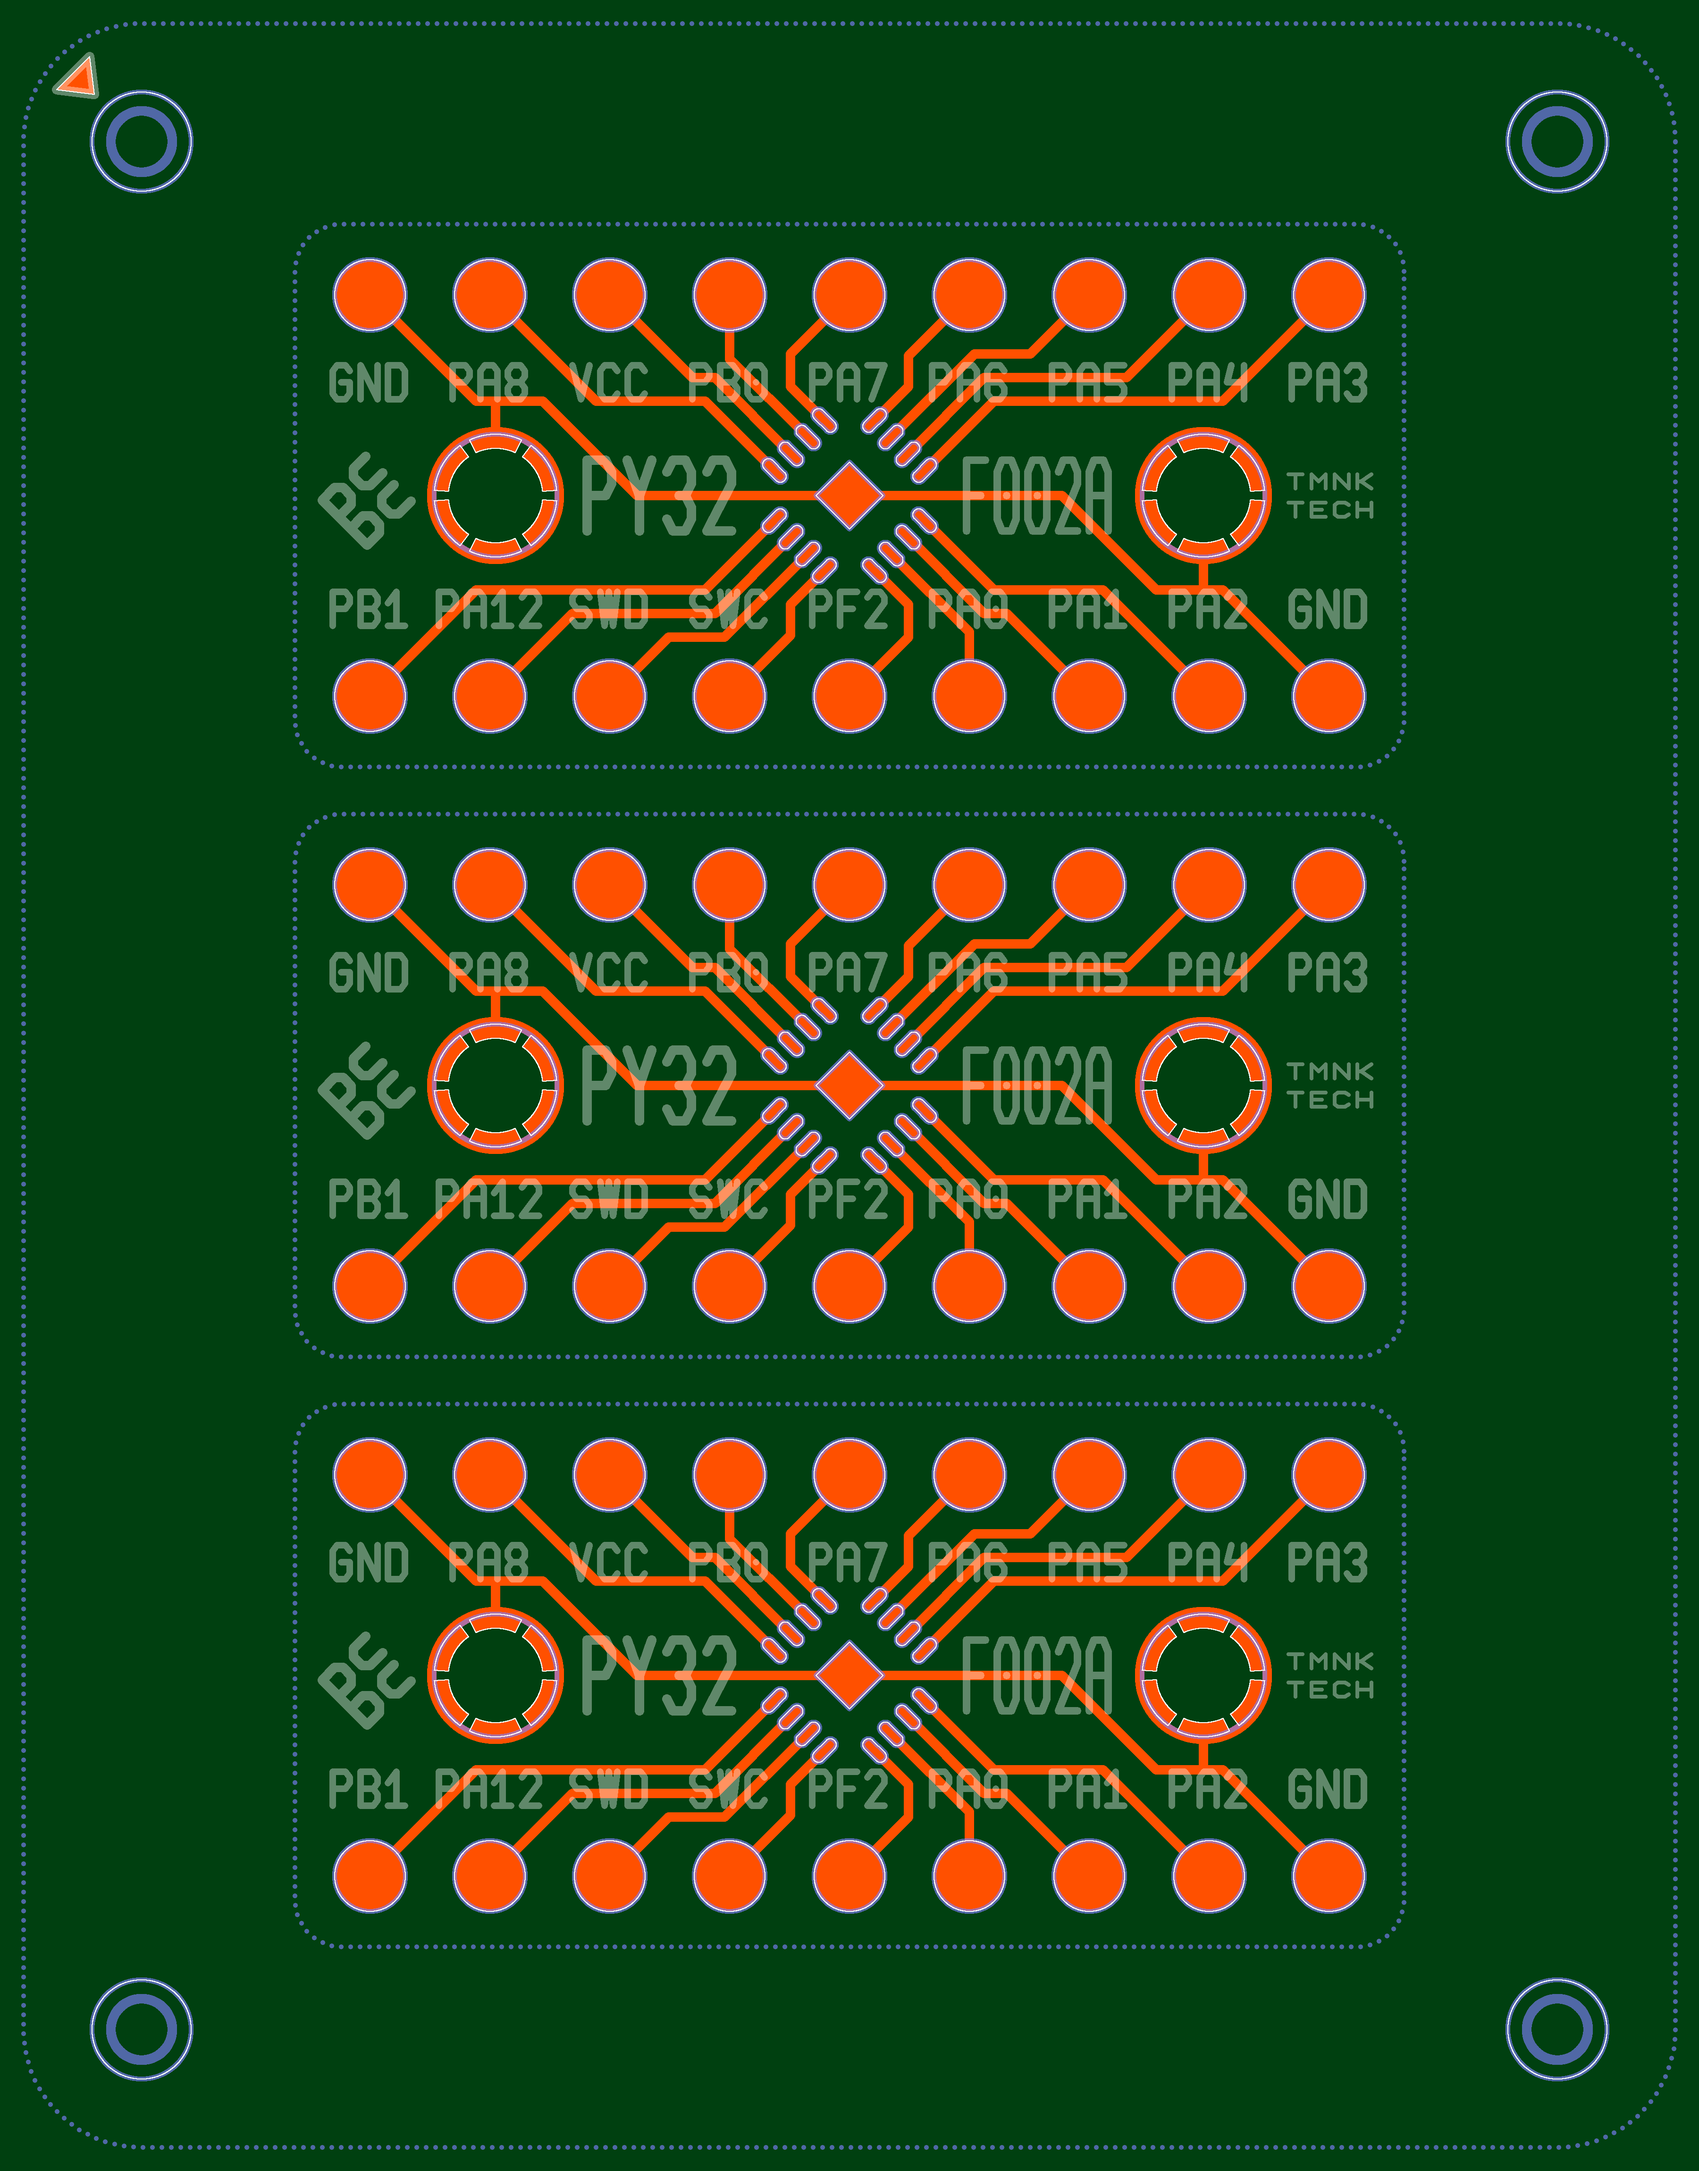
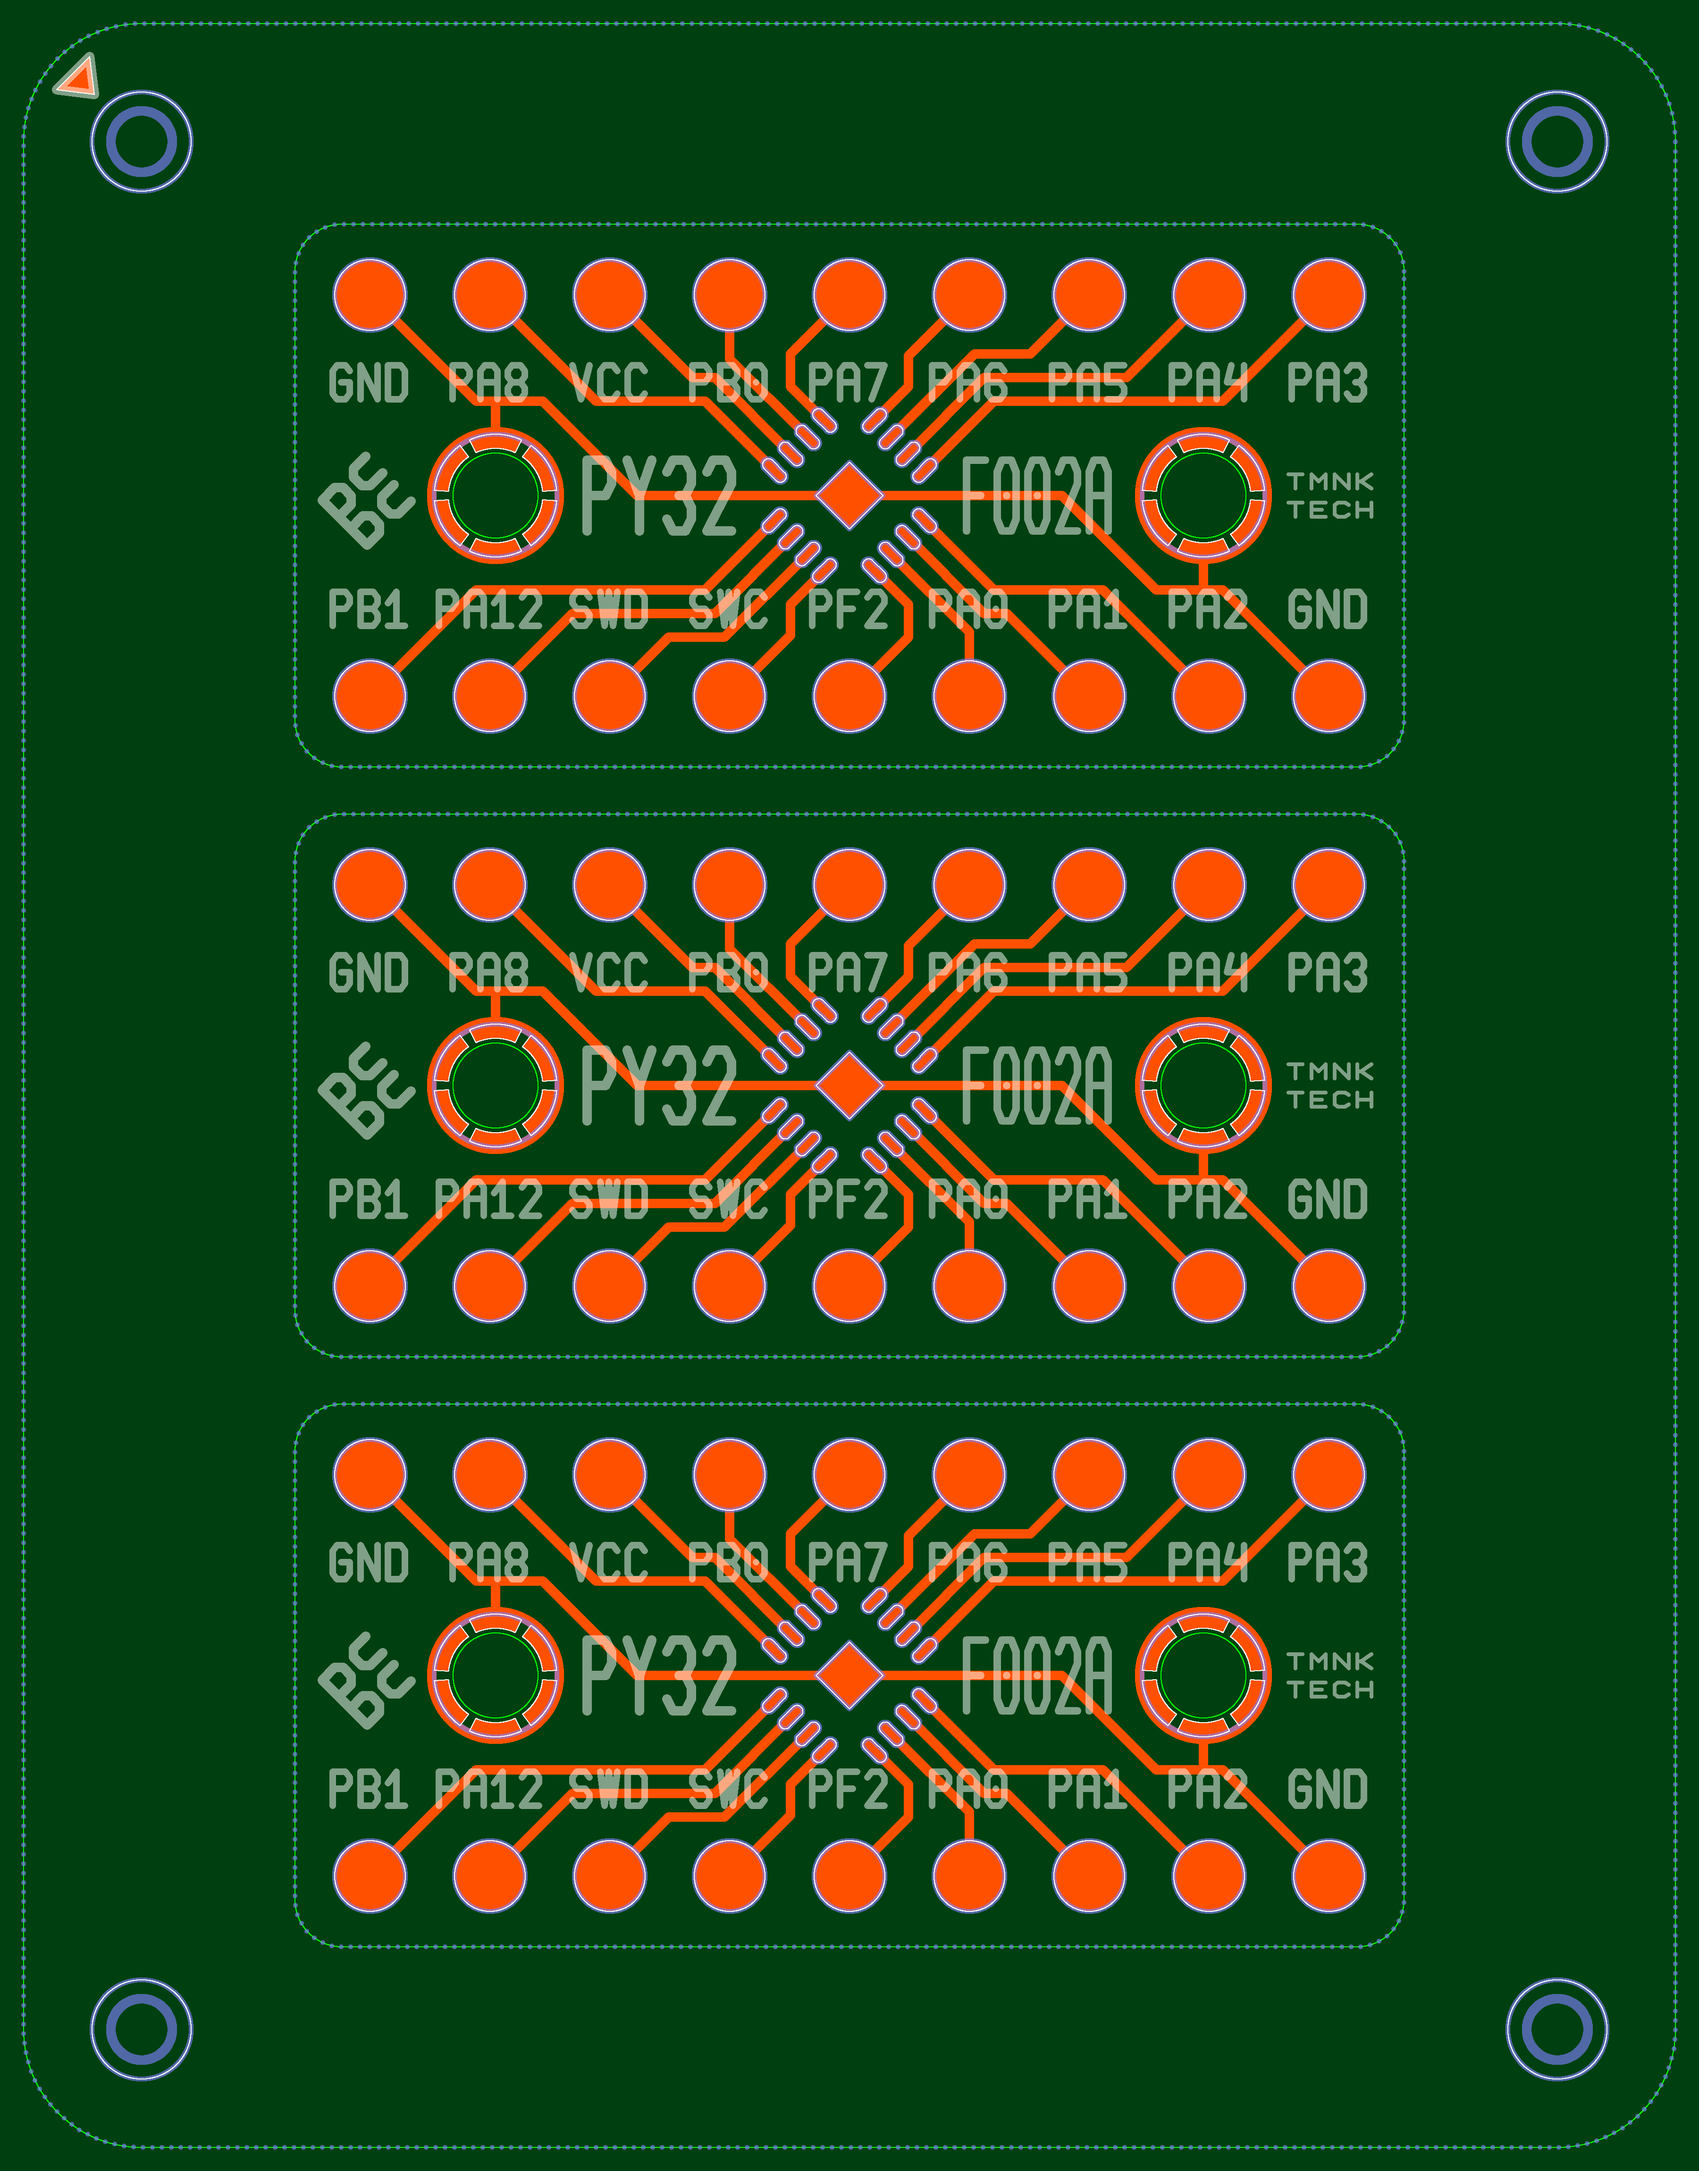
Refactor; add FR4 cuts to overview

diff --git a/eda/pcb.go b/eda/pcb.go
@@ -20,11 +20,9 @@ type PCB struct {
 	width, height, resolution float64
 	trackWidth                float64
 
-	cuts, holes               Paths
-	maskHoles                 Paths
-	stencilCuts, stencilHoles Paths
+	cuts, holes, openings, apertures Paths
 
-	copper, mask, silk, stencil *bitmap.Bitmap
+	fr4, copper, mask, silk, stencil *bitmap.Bitmap
 }
 
 func NewPCB(w, h float64) *PCB {
@@ -37,10 +35,12 @@ func NewPCB(w, h float64) *PCB {
 		height:     h,
 		resolution: scale,
 		trackWidth: 0.2,
-		copper:     bitmap.NewBitmap(wi, hi),
-		mask:       bitmap.NewBitmap(wi, hi),
-		silk:       bitmap.NewBitmap(wi, hi),
-		stencil:    bitmap.NewBitmap(wi, hi),
+
+		fr4:     bitmap.NewBitmap(wi, hi),
+		copper:  bitmap.NewBitmap(wi, hi),
+		mask:    bitmap.NewBitmap(wi, hi),
+		silk:    bitmap.NewBitmap(wi, hi),
+		stencil: bitmap.NewBitmap(wi, hi),
 	}
 }
 
@@ -60,18 +60,19 @@ func (pcb *PCB) component(c *lib.Component, t geom.Transform) {
 
 	brush1 := shape.Circle(int(0.1 * pcb.resolution))
 	brush2 := shape.Circle(int(0.2 * pcb.resolution))
+	brush02 := shape.Circle(int(0.02 * pcb.resolution))
 
 	// Cuts
 	pcb.cuts = append(pcb.cuts, c.Cuts.Transform(t)...)
-	c.Cuts.Transform(bt).Jump(int(0.2*pcb.resolution),
-		func(x, y int) {
-			brush1.IterateRowsXY(x, y, pcb.mask.Set1)
-		},
-	)
+	c.Cuts.Transform(bt).Jump(int(0.2*pcb.resolution), func(x, y int) {
+		brush1.IterateRowsXY(x, y, pcb.mask.Set1)
+	})
+	brush02.IterateContours(c.Cuts.Transform(bt), pcb.fr4.Set1)
 
 	// Pads
 	shape.IterateContoursRows(c.Pads.Transform(bt), pcb.copper.Set1)
-	pcb.stencilHoles = append(pcb.stencilHoles, c.Pads.Transform(t)...)
+	pcb.apertures = append(pcb.apertures, c.Pads.Transform(t)...)
+	brush02.IterateContours(c.Pads.Transform(bt), pcb.stencil.Set1)
 
 	// Tracks
 	for brushW, tracks := range c.Tracks {
@@ -93,12 +94,15 @@ func (pcb *PCB) component(c *lib.Component, t geom.Transform) {
 
 	// MaskBaseHoles
 	brush2.IterateContours(c.MaskBaseHoles.Transform(bt), pcb.mask.Set1)
-	pcb.maskHoles = append(pcb.maskHoles, c.MaskBaseHoles.Transform(t)...)
+	pcb.openings = append(pcb.openings, c.MaskBaseHoles.Transform(t)...)
 
 	// Holes
 	pcb.holes = append(pcb.holes, c.Holes.Transform(t)...)
-	shape.IterateContoursRows(c.Holes.Transform(bt), pcb.copper.Set0)
-	brush2.IterateContours(c.Holes.Transform(bt), pcb.copper.Set0)
+
+	holes := c.Holes.Transform(bt)
+	shape.IterateContoursRows(holes, pcb.copper.Set0)
+	brush2.IterateContours(holes, pcb.copper.Set0)
+	brush02.IterateContours(holes, pcb.fr4.Set1)
 
 	// Sub-components
 	for _, sub := range c.Components {
@@ -120,11 +124,12 @@ func (pcb *PCB) SaveFiles(path string) error {
 	}
 
 	image := bitmap.NewBitmapsImage(
-		[]*bitmap.Bitmap{pcb.copper, pcb.mask, pcb.silk, pcb.stencil},
+		[]*bitmap.Bitmap{pcb.fr4, pcb.copper, pcb.mask, pcb.silk, pcb.stencil},
 		[][2]color.Color{
-			{color.RGBA{0, 0x40, 0x10, 0xFF}, color.RGBA{0xFF, 0x50, 0, 0xFF}},
+			{color.RGBA{0, 0x40, 0x10, 0xFF}, color.RGBA{0, 0xFF, 0, 0xFF}},
+			{color.RGBA{0, 0, 0, 0}, color.RGBA{0xFF, 0x50, 0, 0xFF}},
 			{color.RGBA{0, 0, 0, 0}, color.RGBA{0x80, 0x80, 0xFF, 0xA0}},
-			{color.RGBA{0, 0, 0, 0}, color.RGBA{0xFF, 0xFF, 0xFF, 0x60}},
+			{color.RGBA{0, 0, 0, 0}, color.RGBA{0xFF, 0xFF, 0xFF, 0x80}},
 			{color.RGBA{0, 0, 0, 0}, color.RGBA{0xFF, 0xFF, 0xFF, 0xFF}},
 		},
 		true,

diff --git a/eda/pcb_stencil.go b/eda/pcb_stencil.go
@@ -2,7 +2,6 @@ package eda
 
 import (
 	"temnok/lab/lbrn"
-	"temnok/lab/shape"
 )
 
 func (pcb *PCB) SaveStencil(filename string) error {
@@ -41,10 +40,8 @@ func (pcb *PCB) SaveStencil(filename string) error {
 		},
 	}
 
-	brush := shape.Circle(2)
-	for _, hole := range pcb.stencilHoles {
+	for _, hole := range pcb.apertures {
 		p.Shape = append(p.Shape, lbrn.NewPath(0, lbrnCenter, hole))
-		brush.IterateContour(hole.Transform(pcb.bitmapTransform()), pcb.stencil.Set1)
 	}
 
 	return p.SaveToFile(filename)

diff --git a/eda/pcb_mask.go b/eda/pcb_mask.go
@@ -96,7 +96,7 @@ func (pcb *PCB) SaveMask(filename string) error {
 		},
 	}
 
-	for _, cut := range pcb.maskHoles {
+	for _, cut := range pcb.openings {
 		p.Shape = append(p.Shape, lbrn.NewPath(3, lbrnCenter, cut))
 	}
 

diff --git a/README.md b/README.md
@@ -8,10 +8,11 @@
 
 ### Example Overview
 
-* Red: copper
 * Dark green: FR4
+* Bright Green: FR4 cuts
+* Orange: copper
 * Blue: soldermask cuts
-* Light Green: soldermask marks (silkscreen)
+* Pale Green: soldermask marks (silkscreen)
 * White: stencil cuts
 
 ![PCB Design Overview](pcbc/out/overview.png)
